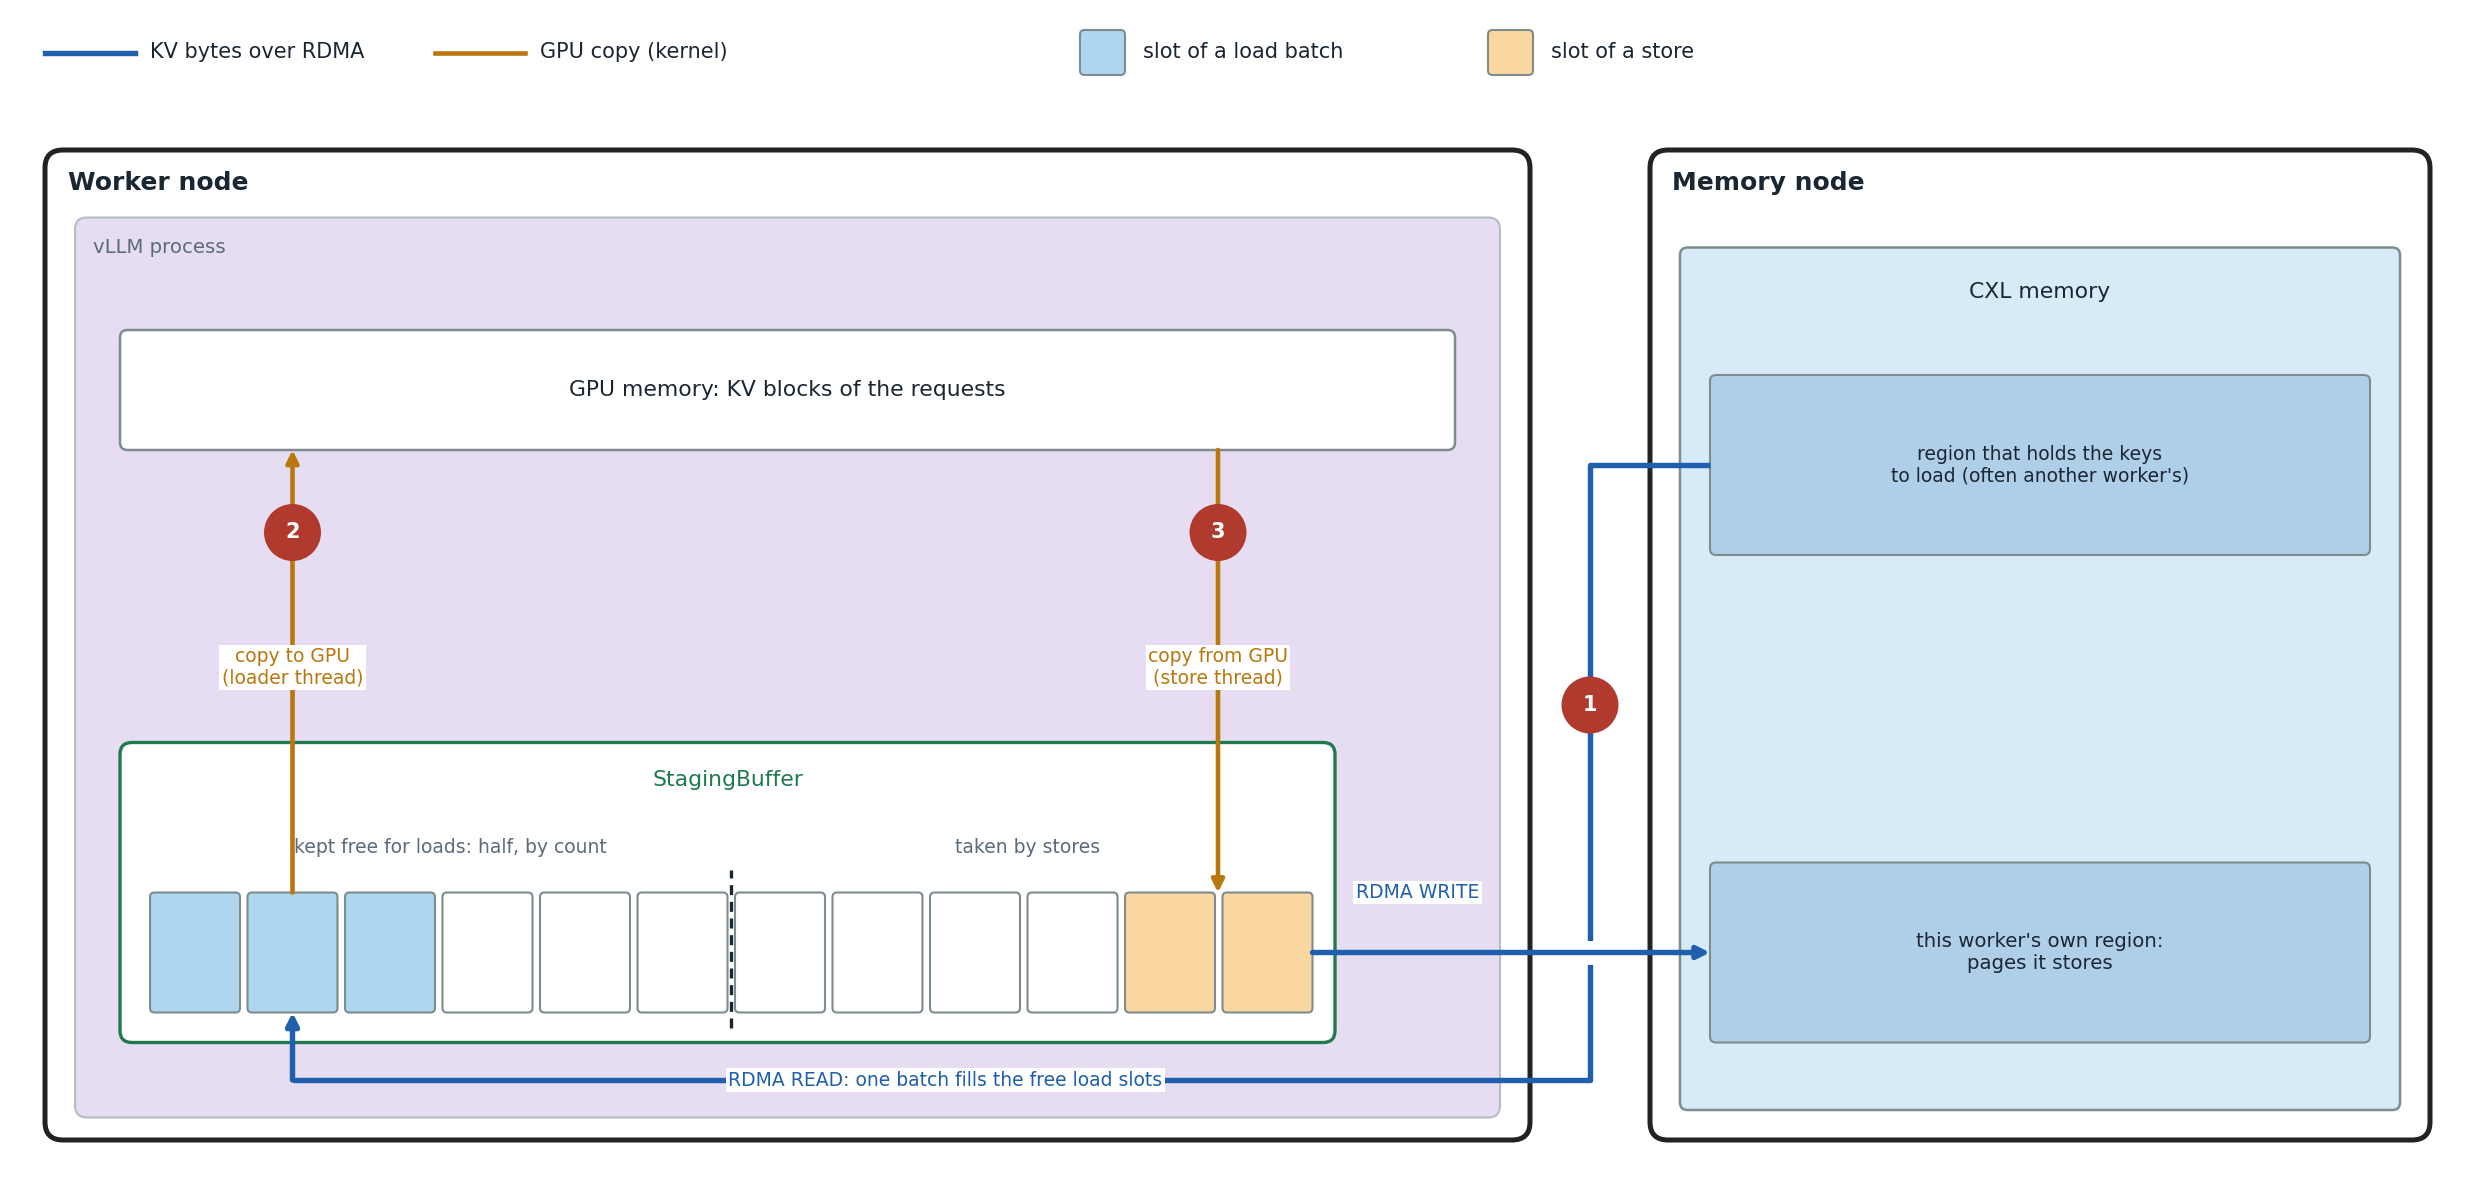
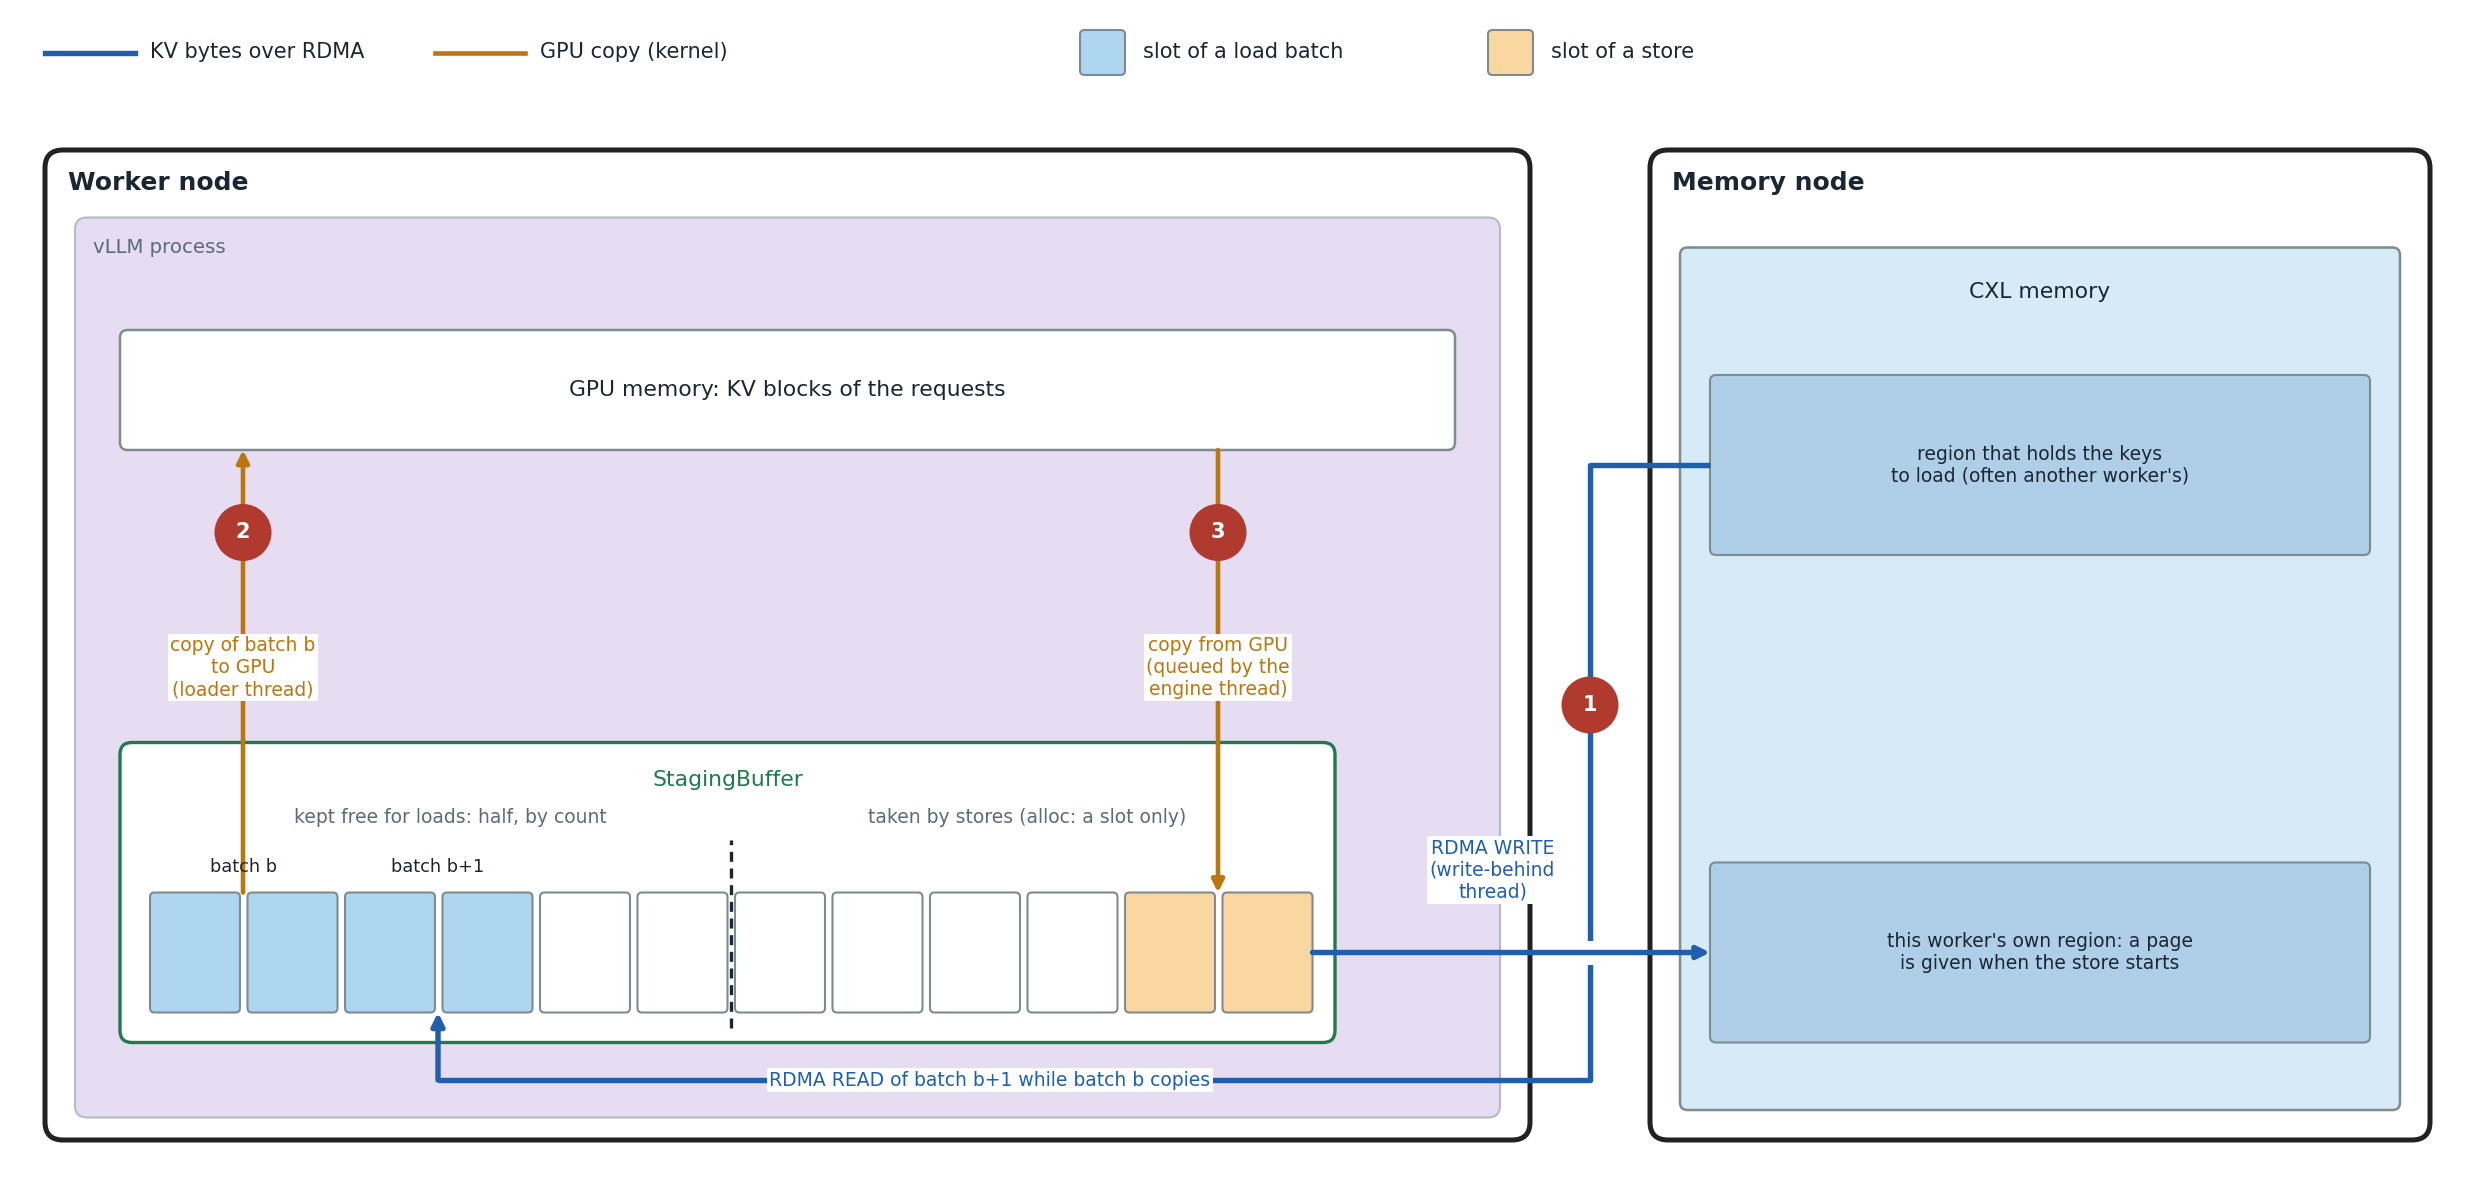
docs(remote_cxl): explain the agent's check of reclaimed regions and the load pipeline
The Handler design doc now says how the remote CXL agent keeps its NIC
registrations in step with regions the Resource Manager reclaims on its own
(the check before mapping and the sweep, with a figure, and the window left
for an owner that does not use the agent), and how asynchronous loads and
stores use the staging slots after the review fixes.

diff --git a/docs/source/design_doc/maru_handler.md b/docs/source/design_doc/maru_handler.md
@@ -309,10 +309,33 @@ its remote CXL agent deregistered it from the NIC (`release`):
 - If MaruServer restarted, nobody takes the regions over, so the Handler
   releases them itself.
 
-**Staging slots.** Loads and stores share the staging buffer. With
-asynchronous transfers, stores leave a share of the slots free for loads:
+**Regions the Resource Manager reclaims on its own.** When maru-server dies
+or loses its Resource Manager connection, the Resource Manager reclaims its
+regions after a grace period without asking the remote CXL agent, and may
+give the same range to a new owner. The remote CXL agent keeps its
+registrations in step with the Resource Manager. Before it registers a
+region, it asks the Resource Manager about every region it holds on an
+overlapping range and releases those the Resource Manager no longer knows;
+it refuses the map if it cannot ask. Once a second it asks about all its
+mappings and releases the reclaimed ones. A late WRITE through the old
+registration then fails at the NIC before the new owner's region is
+registered:
 
-![Staging slots with asynchronous transfers: stores leave half of the slots, by count, free for loads. A load batch fills the free load slots by RDMA READ from the region that holds its keys and goes back after its GPU copy; a store copies from the GPU and WRITEs to the worker's own region](../image/remote_cxl_staging_slots.png)
+![A region the Resource Manager reclaimed after its maru-server died. Worker A kept region A's address and NIC key; worker B maps region B on the same range and stores NEW! in page p; then A sends a late WRITE through region A's old registration. (a) With no check before mapping, both registrations cover page p and the late WRITE overwrites it, so B reads LATE. (b) The remote CXL agent asks the Resource Manager about region A before it maps region B and releases it first, so the late WRITE fails at the NIC and B reads NEW!](../image/remote_cxl_rm_reclaim.png)
+
+A new owner that uses the range without this agent (a cxl Handler on the
+memory node) can still receive such a WRITE until the next check: about one
+second while the agent can reach the Resource Manager.
+
+**Staging slots.** Loads and stores share the staging buffer. With
+asynchronous transfers (the default on this backend), stores leave a share of
+the slots free for loads. The loader thread reads 8 chunks at a time and
+reads the next batch while the previous batch's GPU copies run; a batch's
+slots go back once its copies have ended. A store takes only a slot on vLLM's
+engine thread; the write-behind thread gives each chunk its page and WRITEs
+it:
+
+![Staging slots with asynchronous transfers: stores leave half of the slots, by count, free for loads. The loader thread reads batch b+1 by RDMA READ while batch b's GPU copy runs, and a batch's slots go back after its copy; the engine thread queues a store's copy from the GPU into its slot, and the write-behind thread gives the chunk its page and WRITEs it to the worker's own region](../image/remote_cxl_staging_slots.png)
 
 > **See also:** [Architecture Overview](architecture_overview.md),
 > [Memory Model](memory_model.md),
